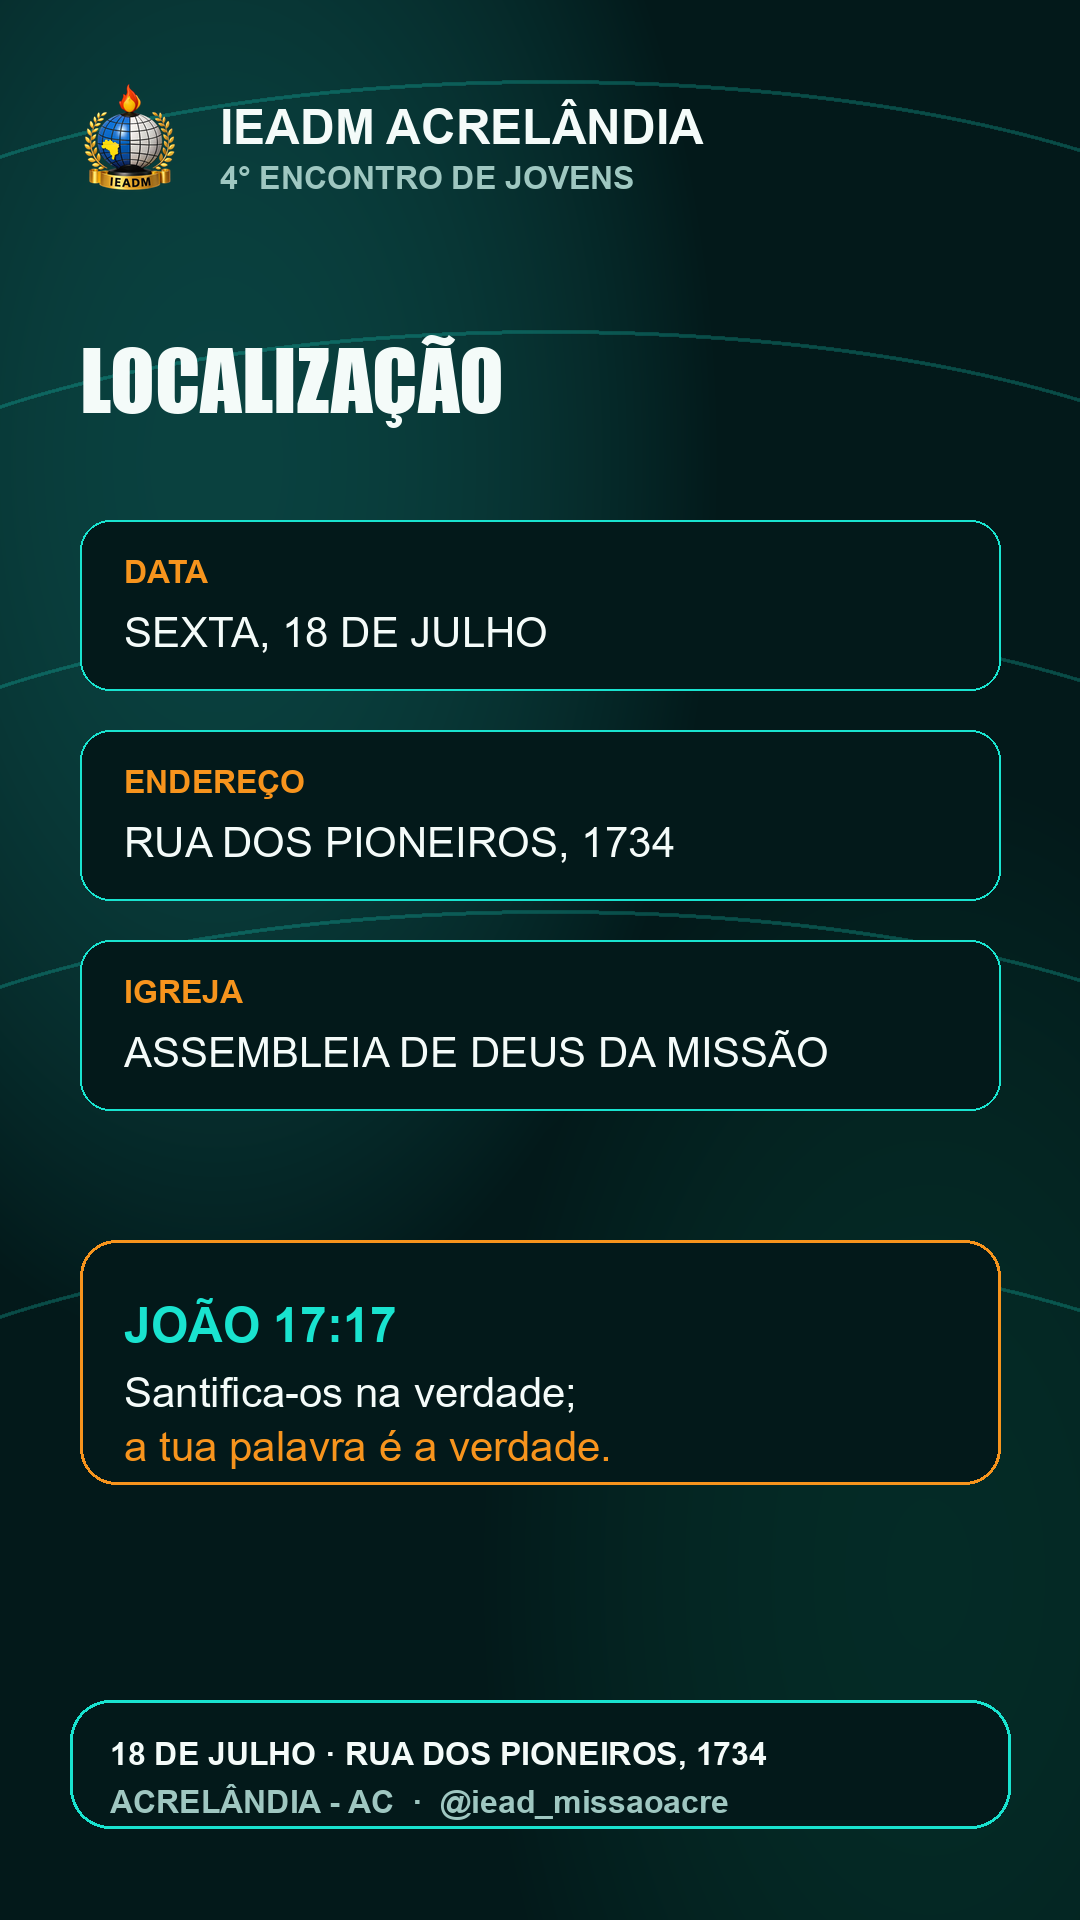
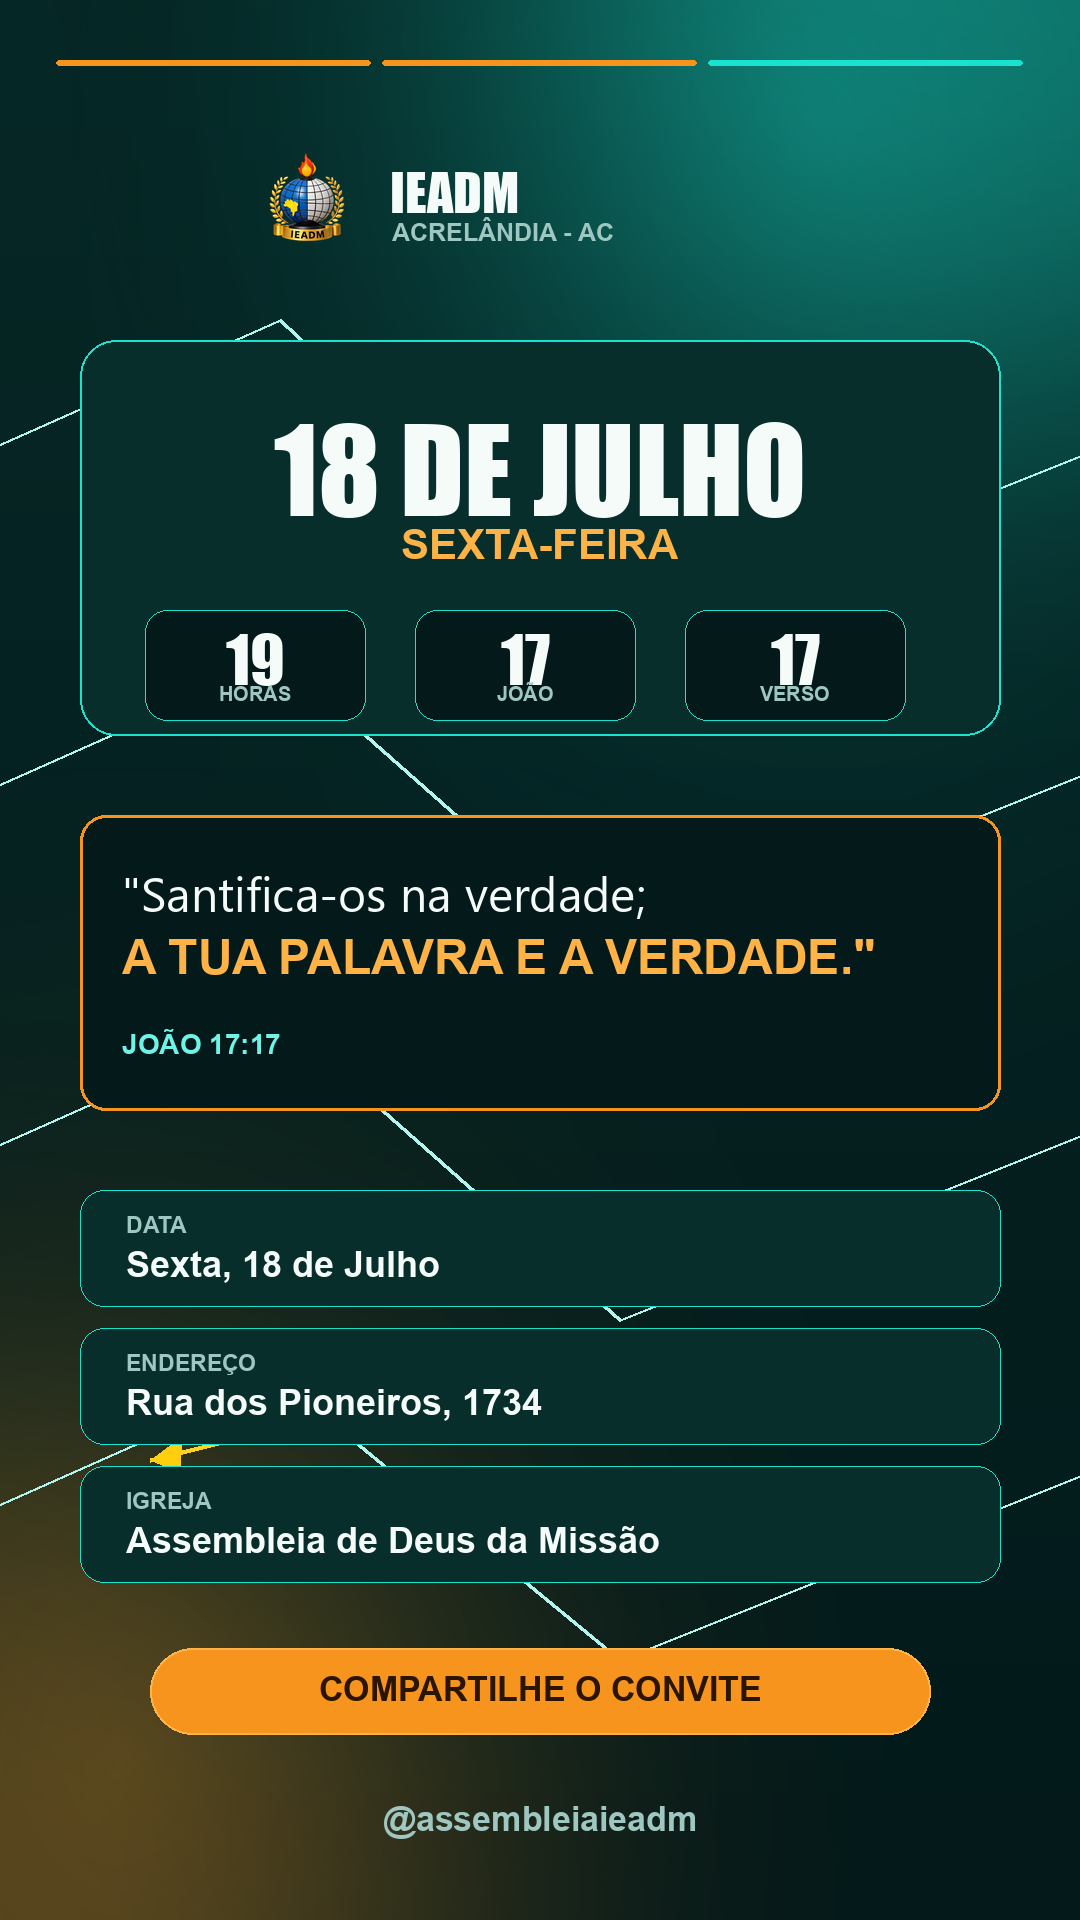
Atualiza Instagram e artes dos stories

diff --git a/stories.html b/stories.html
@@ -239,7 +239,11 @@ body{ position:fixed; inset:0; }
 
 #story-actions{
   position:absolute; left:64px; right:64px; bottom:72px; z-index:85;
-  display:flex; gap:18px;
+  display:flex; gap:18px; opacity:0; pointer-events:none; transform:translateY(24px);
+  transition:opacity .28s var(--ease), transform .28s var(--ease);
+}
+#story-actions.show{
+  opacity:1; pointer-events:auto; transform:none;
 }
 .story-action{
   flex:1; border:0; border-radius:999px; padding:24px 28px;
@@ -265,8 +269,8 @@ body{ position:fixed; inset:0; }
     </div>
 
     <!-- Tap zones -->
-    <div id="tap-prev" onclick="prev()"></div>
-    <div id="tap-next" onclick="advance()"></div>
+    <div id="tap-prev" onclick="handlePrevTap(event)"></div>
+    <div id="tap-next" onclick="handleNextTap(event)"></div>
 
     <!-- ══ SLIDE 1 — HERO ══ -->
     <div class="slide active" id="s0">
@@ -404,7 +408,7 @@ body{ position:fixed; inset:0; }
       <div class="dot-i" data-i="2"></div>
     </div>
 
-    <div id="story-actions">
+    <div id="story-actions" aria-hidden="true">
       <button class="story-action primary" type="button" onclick="shareStory(event)">Compartilhar PNG</button>
       <button class="story-action ghost" type="button" onclick="downloadStory(event)">Baixar</button>
     </div>
@@ -431,11 +435,43 @@ document.addEventListener('DOMContentLoaded', function retry(){
 });
 
 // ── State ──
-const N = 3; let cur = 0, rafId, progStart;
+const N = 3; let cur = 0, rafId, progStart, actionsTimer;
 const SLIDE_MS = 7000;
+const storyActions = document.getElementById('story-actions');
+
+function setStoryActions(show){
+  if(!storyActions) return;
+  storyActions.classList.toggle('show', show);
+  storyActions.setAttribute('aria-hidden', show ? 'false' : 'true');
+}
+
+function revealStoryActions(){
+  setStoryActions(true);
+  clearTimeout(actionsTimer);
+  actionsTimer = setTimeout(()=>setStoryActions(false), 3600);
+}
+
+function handlePrevTap(e){
+  if(e) e.stopPropagation();
+  if(!storyActions?.classList.contains('show')){ revealStoryActions(); return; }
+  prev();
+  revealStoryActions();
+}
+
+function handleNextTap(e){
+  if(e) e.stopPropagation();
+  if(!storyActions?.classList.contains('show')){ revealStoryActions(); return; }
+  advance();
+  revealStoryActions();
+}
+
+storyActions?.addEventListener('pointerdown', e=>e.stopPropagation());
+storyActions?.addEventListener('click', e=>e.stopPropagation());
 
 function showSlide(n){
   cur = ((n % N) + N) % N;
+  setStoryActions(false);
+  clearTimeout(actionsTimer);
   document.querySelectorAll('.slide').forEach((el,i)=> el.classList.toggle('active', i===cur));
   document.querySelectorAll('.dot-i').forEach((el,i)=> el.classList.toggle('on', i===cur));
   document.querySelectorAll('.pb').forEach((el,i)=>{

diff --git a/4 Encontro de Jovens.html b/4 Encontro de Jovens.html
@@ -312,7 +312,7 @@
         </div>
         <div class="hero-cta">
           <a href="https://www.google.com/maps/search/?api=1&query=Rua+dos+Pioneiros+1734+Acrelandia+AC" target="_blank" rel="noopener" class="btn">Como chegar <svg width="18" height="18" viewBox="0 0 24 24" fill="none" stroke="currentColor" stroke-width="2"><path d="M5 12h14M13 6l6 6-6 6"/></svg></a>
-          <a href="https://instagram.com/iead_missaoacre" target="_blank" rel="noopener" class="btn ghost">@iead_missaoacre</a>
+          <a href="https://instagram.com/assembleiaieadm" target="_blank" rel="noopener" class="btn ghost">@assembleiaieadm</a>
         </div>
       </div>
       <div class="info-side">

diff --git a/index.html b/index.html
@@ -312,7 +312,7 @@
         </div>
         <div class="hero-cta">
           <a href="https://www.google.com/maps/search/?api=1&query=Rua+dos+Pioneiros+1734+Acrelandia+AC" target="_blank" rel="noopener" class="btn">Como chegar <svg width="18" height="18" viewBox="0 0 24 24" fill="none" stroke="currentColor" stroke-width="2"><path d="M5 12h14M13 6l6 6-6 6"/></svg></a>
-          <a href="https://instagram.com/iead_missaoacre" target="_blank" rel="noopener" class="btn ghost">@iead_missaoacre</a>
+          <a href="https://instagram.com/assembleiaieadm" target="_blank" rel="noopener" class="btn ghost">@assembleiaieadm</a>
         </div>
       </div>
       <div class="info-side">